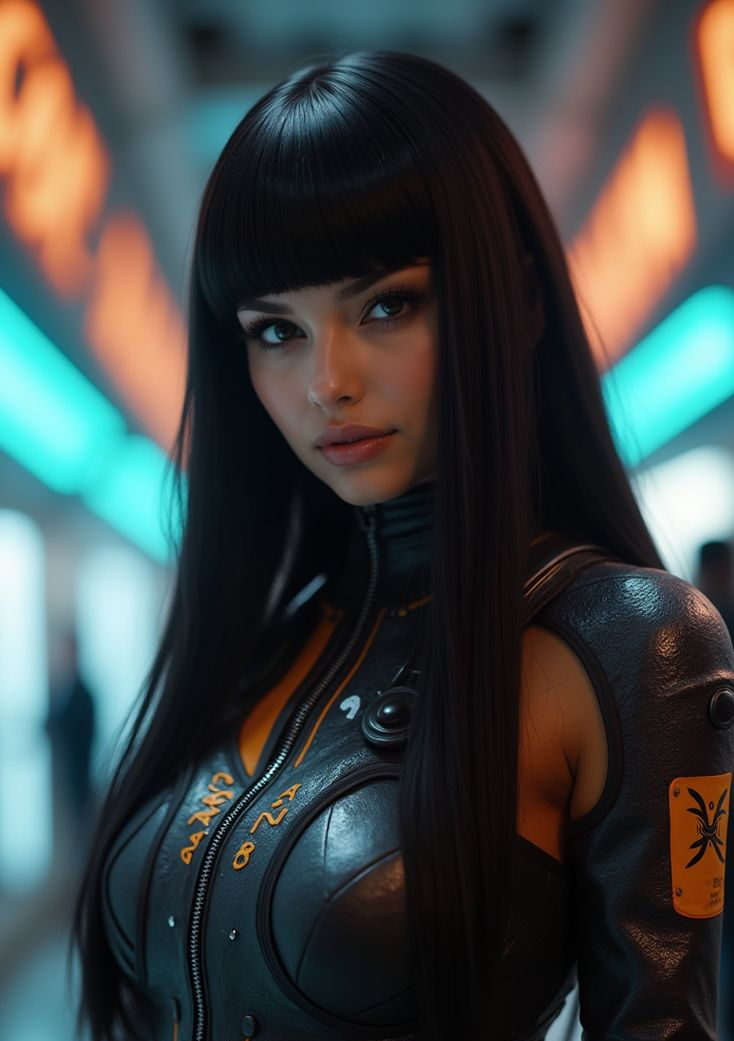
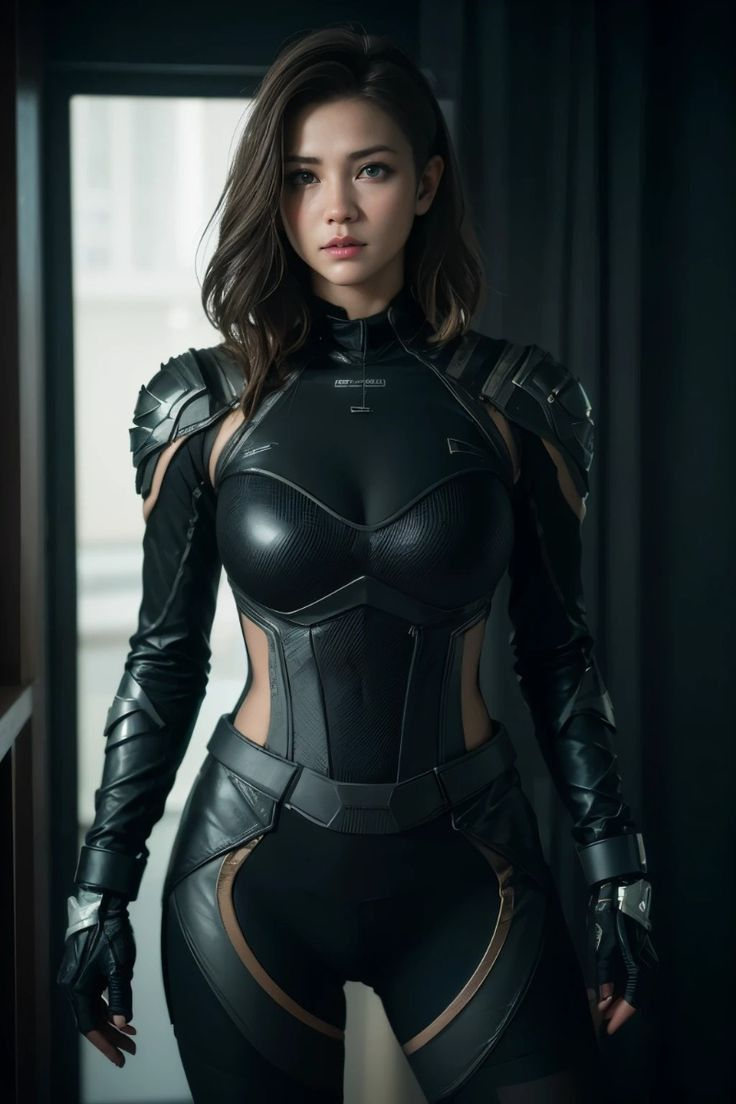
fix: update android image

diff --git a/index.html b/index.html
@@ -529,7 +529,7 @@
 
       .android-img-wrap {
         width: 100%;
-        aspect-ratio: 4/3;
+        aspect-ratio: 3/4;
         overflow: hidden;
         background: var(--bg-panel);
         position: relative;